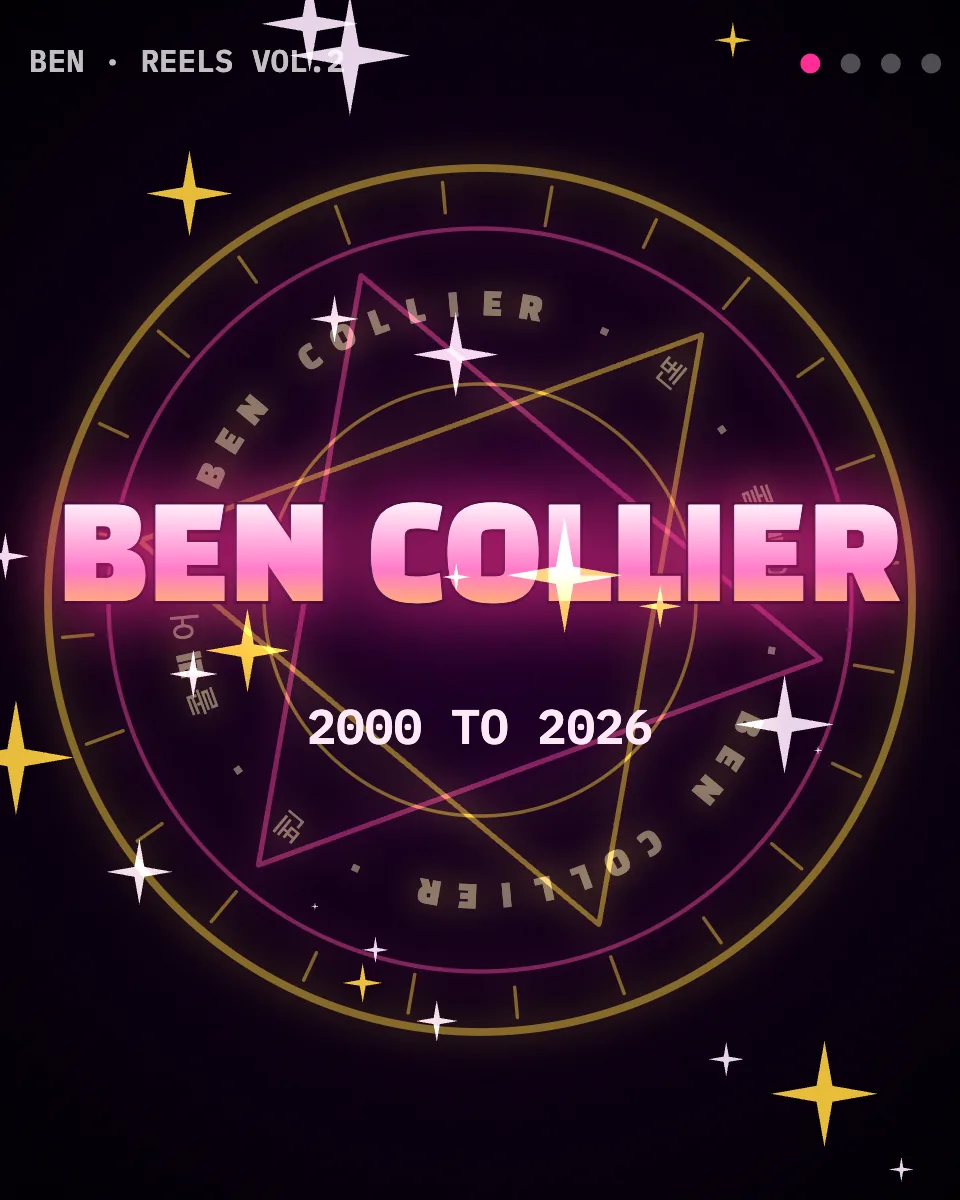
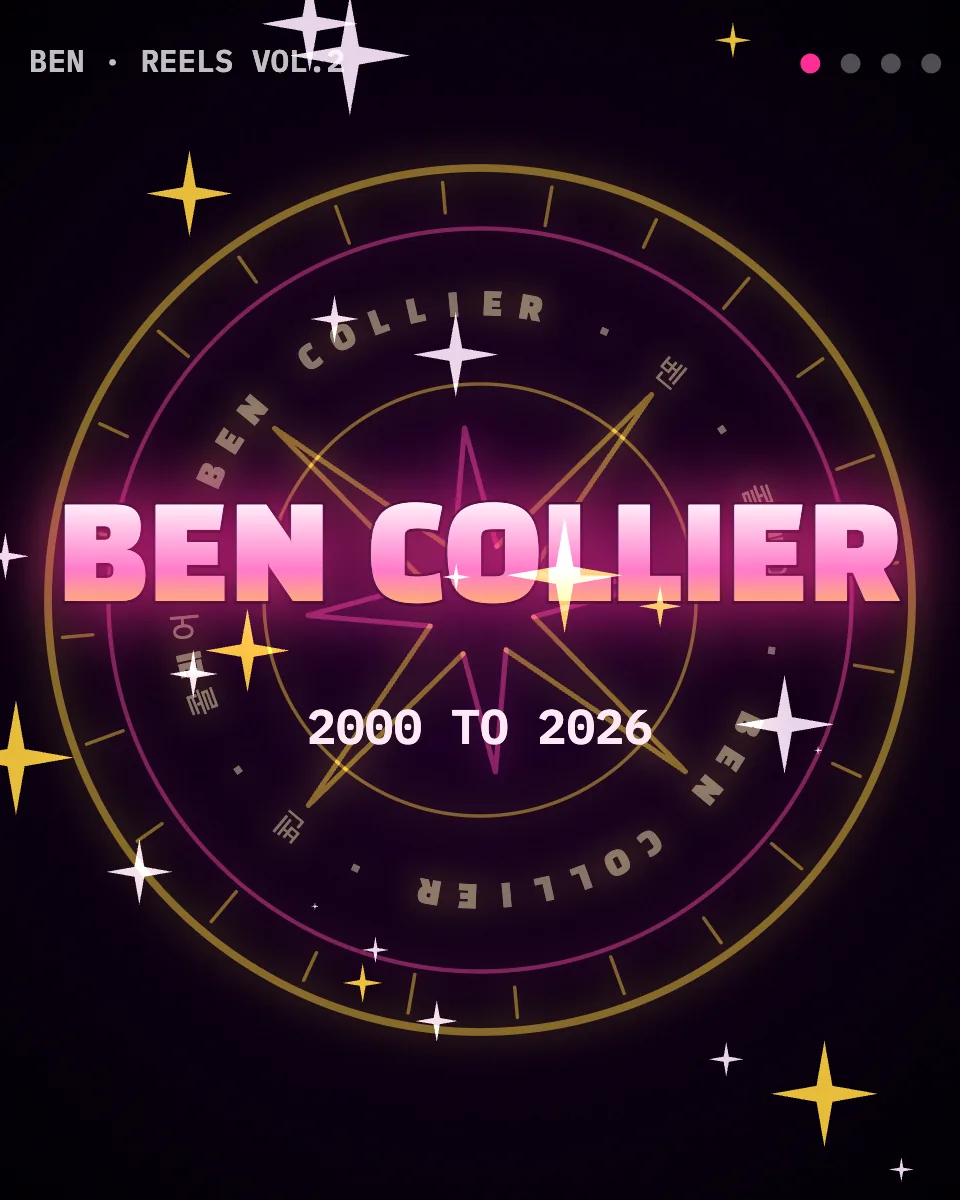
Reels v2: compass rose in the seal instead of the six-point star (#127)
Claude-Session: https://claude.ai/code/session_01BPZYhoMD1RqFrvHdPfQzaA

diff --git a/js/reels-v2.js b/js/reels-v2.js
@@ -345,7 +345,7 @@
     return out;
   }
 
-  // The seal: rings, ticks, a six-point star and Ben's name in hangul,
+  // The seal: rings, ticks, a compass rose and Ben's name in hangul,
   // drawn as if by a brush of light.
   function seal(cx, cy, R, k, alpha, rot) {
     ctx.save();
@@ -373,19 +373,23 @@
       var an = i / 24 * Math.PI * 2, r1 = R * (i % 2 ? 0.9 : 0.88), r2 = R * 0.97;
       ctx.beginPath(); ctx.moveTo(Math.cos(an) * r1, Math.sin(an) * r1); ctx.lineTo(Math.cos(an) * r2, Math.sin(an) * r2); ctx.stroke();
     }
-    var st = seg(0.35, 0.75);
-    [0, Math.PI].forEach(function (off, j) {
-      ctx.strokeStyle = j ? pink : gold; ctx.shadowColor = ctx.strokeStyle; ctx.lineWidth = R * 0.012;
-      ctx.beginPath();
-      for (var e = 0; e <= 3; e++) {
-        var kk = clamp(st * 3 - e + 1, 0, 1);
-        var a0 = off - Math.PI / 2 + (e - 1) * Math.PI * 2 / 3, a1 = a0 + Math.PI * 2 / 3;
-        var x0 = Math.cos(a0) * R * 0.8, y0 = Math.sin(a0) * R * 0.8, x1 = Math.cos(a1) * R * 0.8, y1 = Math.sin(a1) * R * 0.8;
-        if (e === 0) continue;
-        ctx.moveTo(x0, y0); ctx.lineTo(lerp(x0, x1, kk), lerp(y0, y1, kk));
-      }
-      ctx.stroke();
+    // Compass rose: four long gold points, then four short pink ones.
+    var st = seg(0.35, 0.75), ORDER = [0, 2, 4, 6, 1, 3, 5, 7];
+    ctx.lineWidth = R * 0.012;
+    ctx.beginPath();
+    ORDER.forEach(function (o, p) {
+      var kk = clamp(st * 8 - p, 0, 1);
+      if (kk <= 0) return;
+      var card = o % 2 === 0, an = o * Math.PI / 4 - Math.PI / 2, L = R * (card ? 0.62 : 0.4), w = R * 0.13;
+      if (p === 4) { ctx.stroke(); ctx.beginPath(); }
+      ctx.strokeStyle = card ? gold : pink; ctx.shadowColor = ctx.strokeStyle;
+      var tx = Math.cos(an) * L, ty = Math.sin(an) * L;
+      [-1, 1].forEach(function (sd) {
+        var sx = Math.cos(an + sd * Math.PI / 8) * w, sy = Math.sin(an + sd * Math.PI / 8) * w;
+        ctx.moveTo(sx, sy); ctx.lineTo(lerp(sx, tx, kk), lerp(sy, ty, kk));
+      });
     });
+    ctx.stroke();
     var ring = "벤 · 콜리어 · BEN COLLIER · ";
     var lk = seg(0.55, 0.95);
     ctx.font = Math.round(R * 0.075) + "px " + DISPLAY;

diff --git a/reels/index.html b/reels/index.html
@@ -173,6 +173,6 @@
 <script src="../js/site.js?v=67b40b6f"></script>
 <script src="../js/notebook.js?v=b1850ade" defer></script>
 <script src="../js/reels.js?v=d2087dd5" defer></script>
-<script src="../js/reels-v2.js?v=b33904ed" defer></script>
+<script src="../js/reels-v2.js?v=c12ce8bd" defer></script>
 </body>
 </html>
